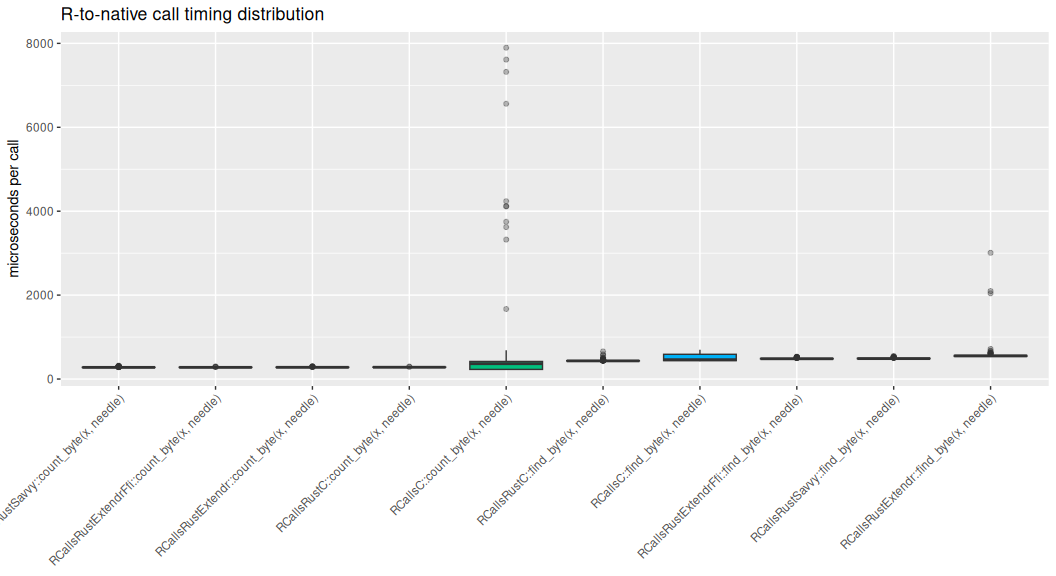
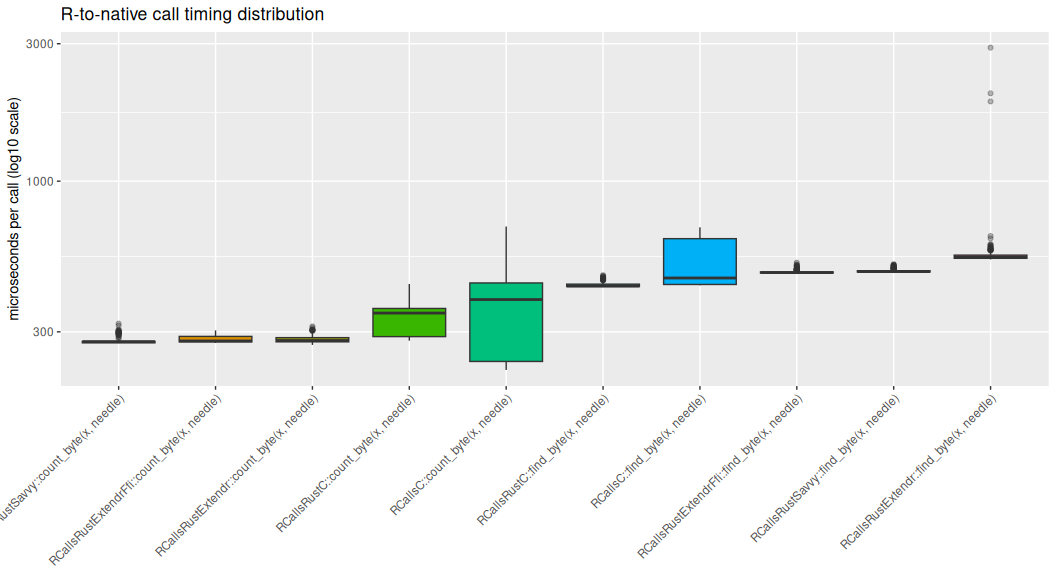
Use log scale for benchmark plot

diff --git a/README.md b/README.md
@@ -62,7 +62,9 @@ vector by default, and reports both scalar count and small-data-frame
 return timings. The quantiles are included because these sub-millisecond
 scans can have visible scheduler/cache tails. Timing columns are
 reported in microseconds; `itr_per_second` is bench’s aggregate
-throughput and is not simply `1e6 / median_us`.
+throughput and is not simply `1e6 / median_us`. The distribution plot
+uses a log10 microsecond scale so long-tail outliers do not flatten the
+main timing bands.
 
 | input_bytes | needle | expected_matches | iterations |
 |------------:|-------:|-----------------:|-----------:|
@@ -70,16 +72,16 @@ throughput and is not simply `1e6 / median_us`.
 
 | binding                       | input_bytes | iterations | result_size |   min_us |   p25_us | median_us |   p75_us |   p95_us |    max_us | itr_per_second | mem_alloc_bytes | gc_per_second |
 |:------------------------------|------------:|-----------:|------------:|---------:|---------:|----------:|---------:|---------:|----------:|---------------:|----------------:|--------------:|
-| savvy count                   |       1e+06 |        500 |          10 | 274.1180 | 275.9620 |  277.5741 | 279.5189 | 288.9638 |  319.0471 |       3587.761 |               0 |       0.00000 |
-| extendr_ffi count             |       1e+06 |        500 |          10 | 274.5701 | 276.6325 |  277.8636 | 280.7488 | 283.7514 |  299.2831 |       3587.691 |               0 |       0.00000 |
-| extendr high-level count      |       1e+06 |        500 |          10 | 274.3921 | 277.0146 |  278.9015 | 281.7881 | 285.9046 |  304.5111 |       3575.190 |               0 |       0.00000 |
-| C .Call + Rust count          |       1e+06 |        500 |          10 | [phone redacted] | [phone redacted] |  [phone redacted] | [phone redacted] | [phone redacted] |  [phone redacted] |       [phone redacted] |               0 |       0.00000 |
-| pure C count                  |       1e+06 |        500 |          10 | 216.5271 | 229.1181 |  365.6086 | 418.8951 | 606.4318 | 7896.4430 |       2256.996 |               0 |       0.00000 |
-| C .Call + Rust data.frame     |       1e+06 |        500 |          10 | [phone redacted] | [phone redacted] |  [phone redacted] | [phone redacted] | [phone redacted] |  [phone redacted] |       [phone redacted] |               0 |       0.00000 |
-| pure C data.frame             |       1e+06 |        500 |          10 | 425.4931 | 438.3191 |  461.1296 | 589.3063 | 671.0332 |  698.4890 |       1964.029 |               0 |       0.00000 |
-| extendr_ffi data.frame        |       1e+06 |        500 |          10 | 478.1591 | 481.0969 |  483.0266 | 488.9756 | 500.0880 |  532.4010 |       2057.343 |               0 |       0.00000 |
-| savvy list + R data.frame     |       1e+06 |        500 |          10 | 481.7910 | 484.7475 |  486.5221 | 493.8008 | 502.8116 |  549.4121 |       2041.929 |               0 |       0.00000 |
-| extendr high-level data.frame |       1e+06 |        500 |          10 | 535.1101 | 539.9276 |  551.6760 | 560.9744 | 585.6493 | 3006.8770 |       1804.769 |               0 |      10.89398 |
+| savvy count                   |       1e+06 |        500 |          10 | 274.0360 | 274.7902 |  277.2285 | 277.8410 | 292.3605 |  320.3610 |       3597.251 |               0 |       0.00000 |
+| extendr_ffi count             |       1e+06 |        500 |          10 | 274.3209 | 276.8912 |  278.8425 | 289.1962 | 293.2529 |  303.4170 |       3544.514 |               0 |       0.00000 |
+| extendr high-level count      |       1e+06 |        500 |          10 | 270.2069 | 276.9167 |  279.7499 | 286.3247 | 295.5162 |  313.4590 |       3546.586 |               0 |       0.00000 |
+| C .Call + Rust count          |       1e+06 |        500 |          10 | [phone redacted] | [phone redacted] |  [phone redacted] | [phone redacted] | [phone redacted] |  [phone redacted] |       [phone redacted] |               0 |       0.00000 |
+| pure C count                  |       1e+06 |        500 |          10 | 221.2031 | 236.7363 |  388.2621 | 443.3598 | 666.4246 |  695.8020 |       2632.649 |               0 |       0.00000 |
+| C .Call + Rust data.frame     |       1e+06 |        500 |          10 | [phone redacted] | [phone redacted] |  [phone redacted] | [phone redacted] | [phone redacted] |  [phone redacted] |       [phone redacted] |               0 |       0.00000 |
+| pure C data.frame             |       1e+06 |        500 |          10 | 434.9441 | 437.9911 |  461.2416 | 631.6440 | 647.3065 |  691.5161 |       1951.640 |               0 |       0.00000 |
+| extendr_ffi data.frame        |       1e+06 |        500 |          10 | 478.0450 | 480.0525 |  481.7810 | 484.1247 | 493.4375 |  521.4739 |       2069.295 |               0 |       0.00000 |
+| savvy list + R data.frame     |       1e+06 |        500 |          10 | 481.5630 | 484.0010 |  485.6825 | 488.8707 | 496.8615 |  514.2461 |       2052.321 |               0 |       0.00000 |
+| extendr high-level data.frame |       1e+06 |        500 |          10 | 534.7910 | 539.8541 |  544.5181 | 553.6925 | 575.5297 | 2905.7070 |       1822.088 |               0 |      10.99852 |
 
 ![](README_files/figure-gfm/benchmark-plot-1.png)<!-- -->
 

diff --git a/benchmarks/benchmark.md b/benchmarks/benchmark.md
@@ -22,7 +22,9 @@ implementations use the same two-pass algorithm: count matches, allocate
 output, then fill positions. Quantiles are reported because these
 sub-millisecond scans can have visible scheduler/cache tails. Timing
 columns are reported in microseconds; `itr_per_second` is bench’s
-aggregate throughput and is not simply `1e6 / median_us`.
+aggregate throughput and is not simply `1e6 / median_us`. The
+distribution plot uses a log10 microsecond scale so long-tail outliers
+do not flatten the main timing bands.
 
 ## Machine
 
@@ -44,16 +46,16 @@ aggregate throughput and is not simply `1e6 / median_us`.
 
 | binding                       | input_bytes | iterations | result_size |   min_us |   p25_us | median_us |   p75_us |   p95_us |    max_us | itr_per_second | mem_alloc_bytes | gc_per_second |
 |:------------------------------|------------:|-----------:|------------:|---------:|---------:|----------:|---------:|---------:|----------:|---------------:|----------------:|--------------:|
-| savvy count                   |       1e+06 |        500 |          10 | 274.1180 | 275.9620 |  277.5741 | 279.5189 | 288.9638 |  319.0471 |       3587.761 |               0 |       0.00000 |
-| extendr_ffi count             |       1e+06 |        500 |          10 | 274.5701 | 276.6325 |  277.8636 | 280.7488 | 283.7514 |  299.2831 |       3587.691 |               0 |       0.00000 |
-| extendr high-level count      |       1e+06 |        500 |          10 | 274.3921 | 277.0146 |  278.9015 | 281.7881 | 285.9046 |  304.5111 |       3575.190 |               0 |       0.00000 |
-| C .Call + Rust count          |       1e+06 |        500 |          10 | [phone redacted] | [phone redacted] |  [phone redacted] | [phone redacted] | [phone redacted] |  [phone redacted] |       [phone redacted] |               0 |       0.00000 |
-| pure C count                  |       1e+06 |        500 |          10 | 216.5271 | 229.1181 |  365.6086 | 418.8951 | 606.4318 | 7896.4430 |       2256.996 |               0 |       0.00000 |
-| C .Call + Rust data.frame     |       1e+06 |        500 |          10 | [phone redacted] | [phone redacted] |  [phone redacted] | [phone redacted] | [phone redacted] |  [phone redacted] |       [phone redacted] |               0 |       0.00000 |
-| pure C data.frame             |       1e+06 |        500 |          10 | 425.4931 | 438.3191 |  461.1296 | 589.3063 | 671.0332 |  698.4890 |       1964.029 |               0 |       0.00000 |
-| extendr_ffi data.frame        |       1e+06 |        500 |          10 | 478.1591 | 481.0969 |  483.0266 | 488.9756 | 500.0880 |  532.4010 |       2057.343 |               0 |       0.00000 |
-| savvy list + R data.frame     |       1e+06 |        500 |          10 | 481.7910 | 484.7475 |  486.5221 | 493.8008 | 502.8116 |  549.4121 |       2041.929 |               0 |       0.00000 |
-| extendr high-level data.frame |       1e+06 |        500 |          10 | 535.1101 | 539.9276 |  551.6760 | 560.9744 | 585.6493 | 3006.8770 |       1804.769 |               0 |      10.89398 |
+| savvy count                   |       1e+06 |        500 |          10 | 274.0360 | 274.7902 |  277.2285 | 277.8410 | 292.3605 |  320.3610 |       3597.251 |               0 |       0.00000 |
+| extendr_ffi count             |       1e+06 |        500 |          10 | 274.3209 | 276.8912 |  278.8425 | 289.1962 | 293.2529 |  303.4170 |       3544.514 |               0 |       0.00000 |
+| extendr high-level count      |       1e+06 |        500 |          10 | 270.2069 | 276.9167 |  279.7499 | 286.3247 | 295.5162 |  313.4590 |       3546.586 |               0 |       0.00000 |
+| C .Call + Rust count          |       1e+06 |        500 |          10 | [phone redacted] | [phone redacted] |  [phone redacted] | [phone redacted] | [phone redacted] |  [phone redacted] |       [phone redacted] |               0 |       0.00000 |
+| pure C count                  |       1e+06 |        500 |          10 | 221.2031 | 236.7363 |  388.2621 | 443.3598 | 666.4246 |  695.8020 |       2632.649 |               0 |       0.00000 |
+| C .Call + Rust data.frame     |       1e+06 |        500 |          10 | [phone redacted] | [phone redacted] |  [phone redacted] | [phone redacted] | [phone redacted] |  [phone redacted] |       [phone redacted] |               0 |       0.00000 |
+| pure C data.frame             |       1e+06 |        500 |          10 | 434.9441 | 437.9911 |  461.2416 | 631.6440 | 647.3065 |  691.5161 |       1951.640 |               0 |       0.00000 |
+| extendr_ffi data.frame        |       1e+06 |        500 |          10 | 478.0450 | 480.0525 |  481.7810 | 484.1247 | 493.4375 |  521.4739 |       2069.295 |               0 |       0.00000 |
+| savvy list + R data.frame     |       1e+06 |        500 |          10 | 481.5630 | 484.0010 |  485.6825 | 488.8707 | 496.8615 |  514.2461 |       2052.321 |               0 |       0.00000 |
+| extendr high-level data.frame |       1e+06 |        500 |          10 | 534.7910 | 539.8541 |  544.5181 | 553.6925 | 575.5297 | 2905.7070 |       1822.088 |               0 |      10.99852 |
 
 ## Plot
 